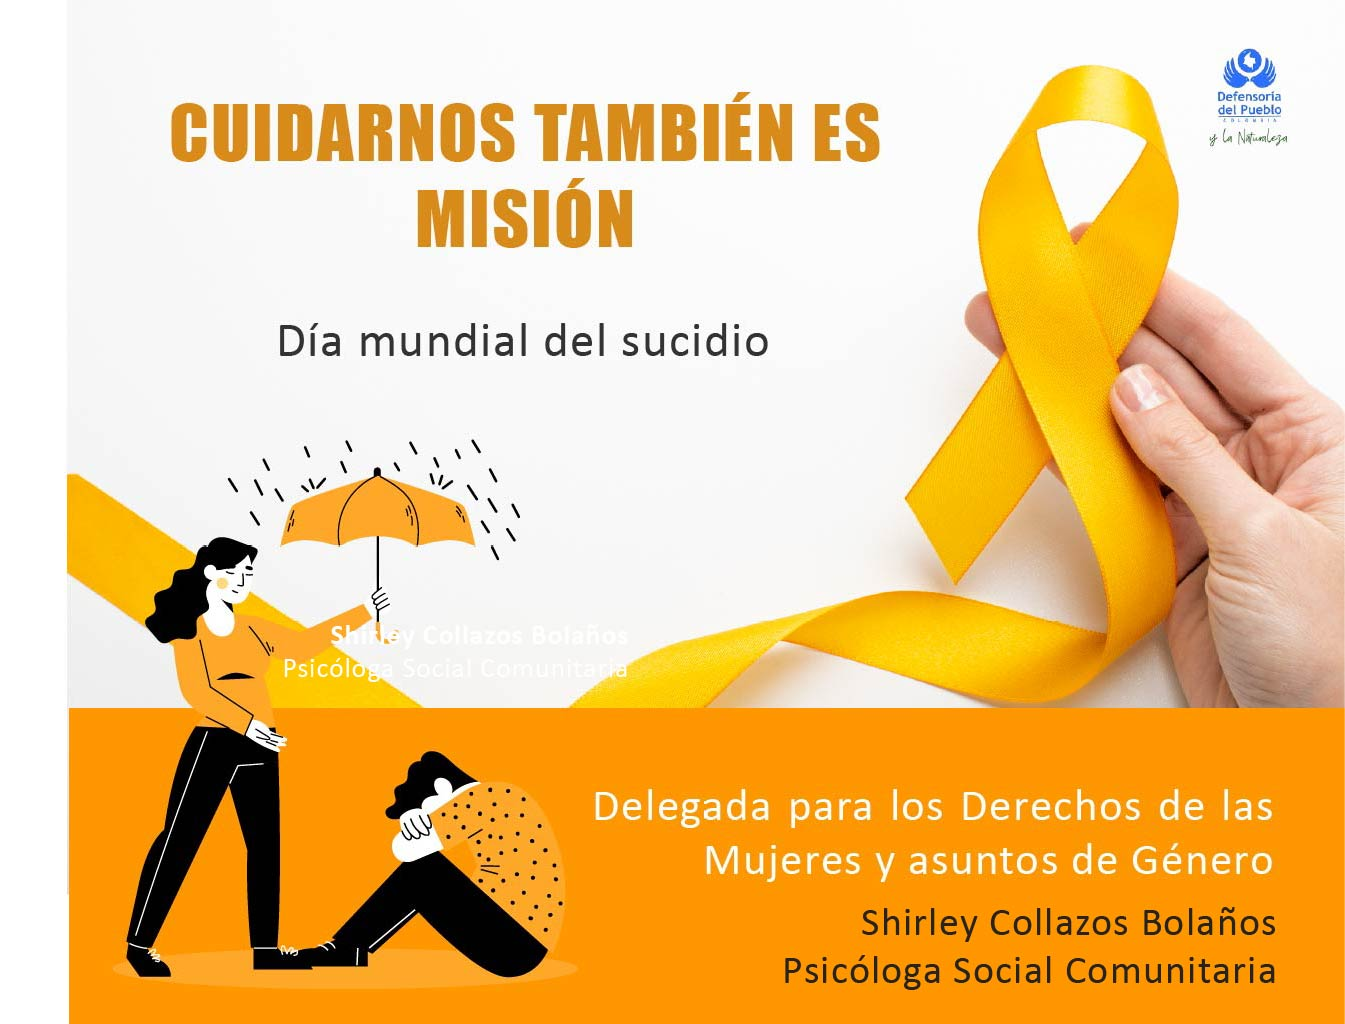
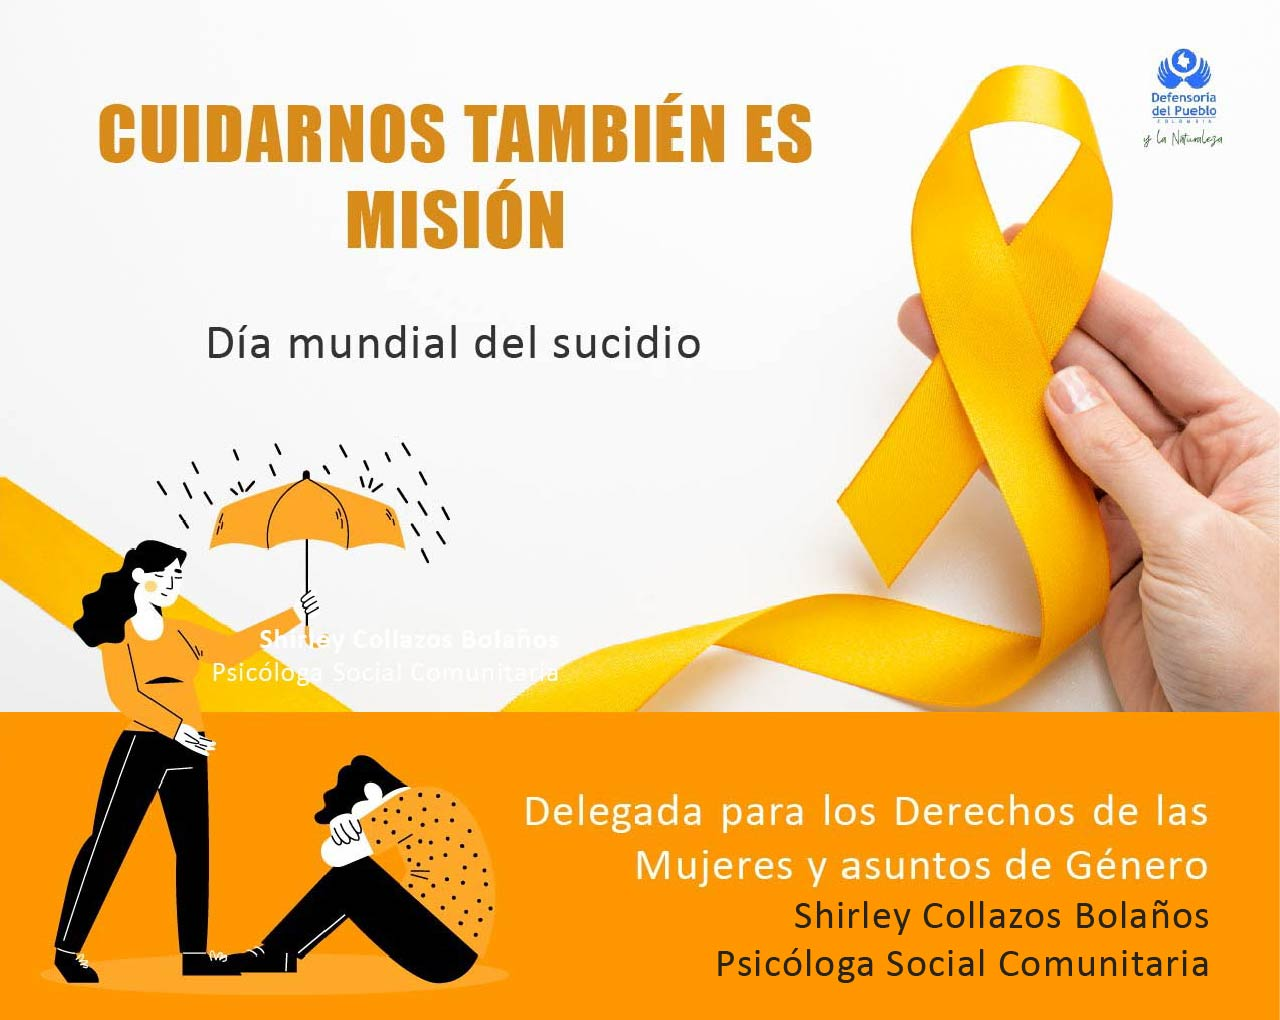
Update slides 1 and 10 (v3.5.3)

Changed region(s): [[0.0, 0.0304, 1.0, 1.0], [0.0625, 0.0912, 0.6562, 0.2431], [0.1562, 0.3039, 0.5625, 0.3647]]

diff --git a/index.html b/index.html
@@ -377,7 +377,7 @@
 <body>
 
   <div id="viewer"></div>
-  <div id="version">v3.5.2</div>
+  <div id="version">v3.5.3</div>
   <div id="counter"></div>
   <div id="nav">
     <button id="prev-btn" class="nav-btn" title="Anterior">‹</button>

diff --git a/CHANGELOG.md b/CHANGELOG.md
@@ -1,5 +1,8 @@
 # Registro de versiones
 
+## v3.5.3 — 2026-09-08
+- Actualización de las imágenes 1 y 10.
+
 ## v3.5.2 — 2026-09-08
 - Actualización de contenido: imágenes 1, 3-8, 10-17, 19, 20 y 16-1.
 
